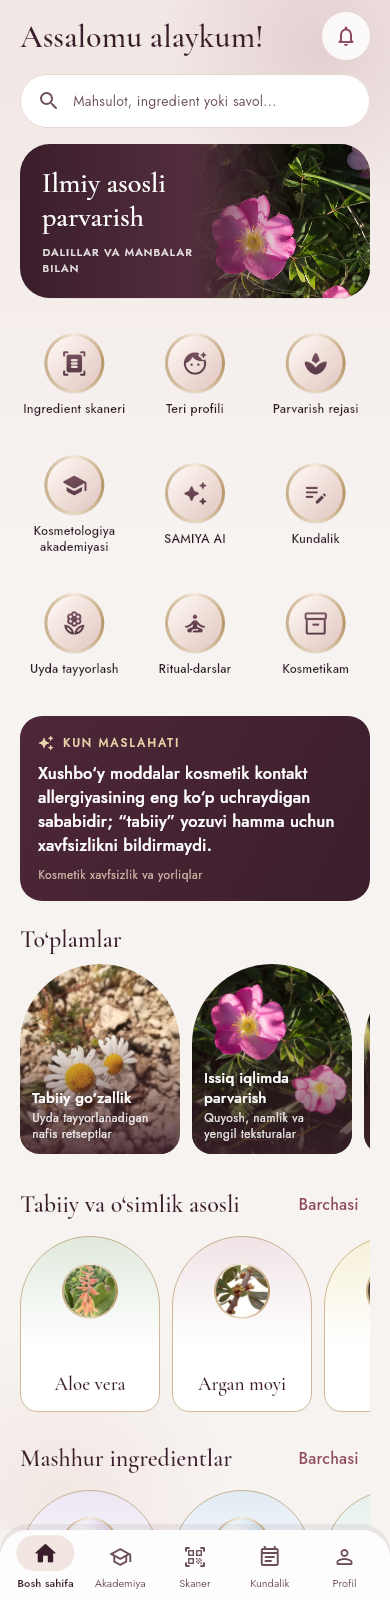
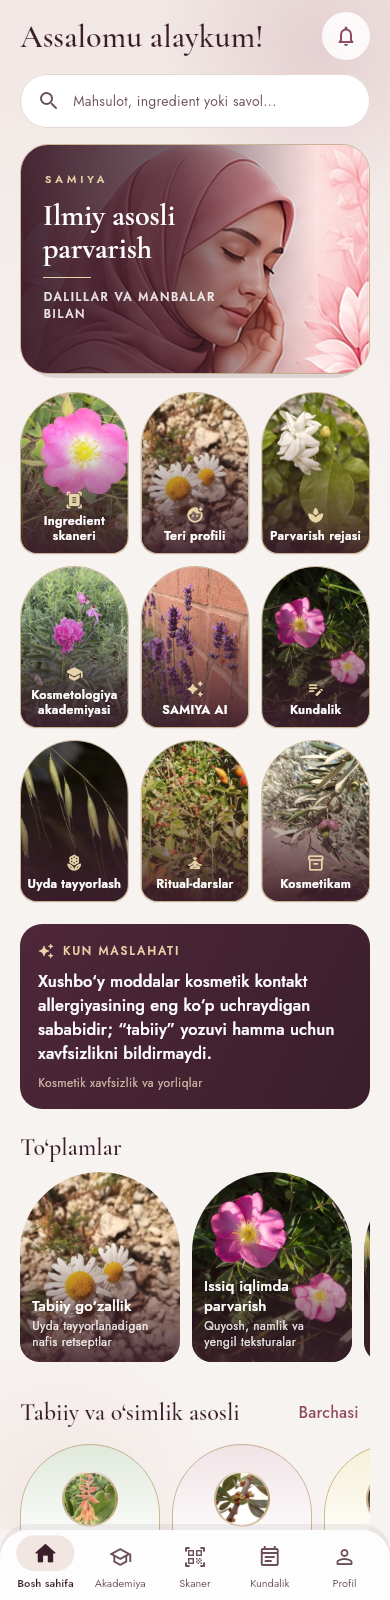
feat(home): lyuks bosh sahifa — portretli jurnal muqovasi va ravoq shaklidagi rasmli bo'lim kartochkalari
Claude-Session: https://claude.ai/code/session_01DHMppTHpVgUVFN7o5nWH6w

diff --git a/mobile/lib/features/home/home_page.dart b/mobile/lib/features/home/home_page.dart
@@ -9,7 +9,6 @@ import '../../app/theme.dart';
 import '../../ui/ingredient_palette.dart';
 import '../../ui/safe_nav.dart';
 import '../../l10n/app_localizations.dart';
-import '../../ui/portrait_banner.dart';
 
 /// 11 Bosh sahifa. Tavsiya bloki hozircha faqat ingredient NOMLARI (da'vosiz);
 /// tavsif va dalillar kontent bazasi tayyor bo'lgach ulanadi.
@@ -102,7 +101,7 @@ class HomePage extends StatelessWidget {
               ),
             ),
             const SizedBox(height: 16),
-            PortraitBanner(key: const Key('home-banner'), title: l.homeBannerTitle, tag: l.homeBannerTag, minHeight: 150, image: 'assets/photos/deco_rose.jpg'),
+            _HeroPortrait(key: const Key('home-banner'), title: l.homeBannerTitle, tag: l.homeBannerTag, onTap: () => context.go('/academy')),
             const SizedBox(height: 18),
             GridView.builder(
               shrinkWrap: true,
@@ -112,9 +111,9 @@ class HomePage extends StatelessWidget {
                 crossAxisCount: 3,
                 mainAxisSpacing: 12,
                 crossAxisSpacing: 12,
-                mainAxisExtent: 74 + 44 * scale,
+                mainAxisExtent: 128 + 34 * scale,
               ),
-              itemBuilder: (context, i) => _Tile(key: Key('tile-${tiles[i].$1}'), label: tiles[i].$2, icon: tiles[i].$3, onTap: tiles[i].$4),
+              itemBuilder: (context, i) => _PhotoTile(key: Key('tile-${tiles[i].$1}'), label: tiles[i].$2, icon: tiles[i].$3, photo: _tilePhotos[tiles[i].$1]!, onTap: tiles[i].$4),
             ),
             if (!app.isPro && app.campaign.phase == 'free_campaign' && (app.campaign.daysRemaining ?? 99) <= 15) ...[
               const SizedBox(height: 16),
@@ -322,82 +321,6 @@ class HomePage extends StatelessWidget {
   }
 }
 
-class _Tile extends StatelessWidget {
-  const _Tile({super.key, required this.label, required this.icon, required this.onTap});
-  final String label;
-  final IconData icon;
-  final VoidCallback onTap;
-
-  @override
-  Widget build(BuildContext context) {
-    return Semantics(
-      button: true,
-      label: label,
-      child: InkWell(
-        borderRadius: BorderRadius.circular(18),
-        onTap: onTap,
-        child: ExcludeSemantics(
-          child: Column(
-            mainAxisAlignment: MainAxisAlignment.center,
-            children: [
-              // Ikki rangli belgi: marvarid-atirgul gradient, ingichka oltin halqa va yengil yorug'lik.
-              Container(
-                width: 60,
-                height: 60,
-                padding: const EdgeInsets.all(3),
-                decoration: BoxDecoration(
-                  shape: BoxShape.circle,
-                  gradient: SweepGradient(
-                    colors: [
-                      SamiyaColors.gold.withValues(alpha: 0.9),
-                      const Color(0xFFE9D9C4),
-                      SamiyaColors.gold.withValues(alpha: 0.6),
-                      const Color(0xFFF4E9DC),
-                      SamiyaColors.gold.withValues(alpha: 0.9),
-                    ],
-                  ),
-                  boxShadow: SamiyaShadows.soft,
-                ),
-                child: Container(
-                  alignment: Alignment.center,
-                  decoration: const BoxDecoration(
-                    shape: BoxShape.circle,
-                    gradient: LinearGradient(
-                      begin: Alignment.topLeft,
-                      end: Alignment.bottomRight,
-                      colors: [Color(0xFFFFFBF8), Color(0xFFF0DFD9), Color(0xFFE2C6C4)],
-                    ),
-                  ),
-                  child: ShaderMask(
-                    blendMode: BlendMode.srcIn,
-                    shaderCallback: (r) => const LinearGradient(
-                      begin: Alignment.topCenter,
-                      end: Alignment.bottomCenter,
-                      colors: [Color(0xFF6B3D50), SamiyaColors.heading],
-                    ).createShader(r),
-                    child: Icon(icon, size: 27),
-                  ),
-                ),
-              ),
-              const SizedBox(height: 8),
-              Flexible(
-                child: Text(
-                  label,
-                  maxLines: 2,
-                  overflow: TextOverflow.ellipsis,
-                  textAlign: TextAlign.center,
-                  style: Theme.of(context).textTheme.titleMedium?.copyWith(fontSize: 12.5, fontWeight: FontWeight.w500, height: 1.25),
-                ),
-              ),
-            ],
-          ),
-        ),
-      ),
-    );
-  }
-}
-
-/// Ravoq (arka) shaklidagi kartochka: Sharq me'morchiligi va lyuks atelye uslubi; ingichka oltin chiziq.
 class _IngredientCard extends StatelessWidget {
   const _IngredientCard({required this.name, required this.slug, required this.onTap, this.latin = true, this.icon = Icons.science_outlined});
   final String name;
@@ -572,6 +495,136 @@ class _Collection extends StatelessWidget {
                   ),
                 ),
               ],
+            ),
+          ),
+        ),
+      ),
+    );
+  }
+}
+
+/// Bo'lim rasmlari (CC0, assets/photos).
+const _tilePhotos = {
+  'scanner': 'assets/photos/rose-water.jpg',
+  'skin': 'assets/photos/chamomile.jpg',
+  'routine': 'assets/photos/deco_jasmine.jpg',
+  'academy': 'assets/photos/deco_peony.jpg',
+  'ai': 'assets/photos/deco_lavender.jpg',
+  'journal': 'assets/photos/deco_rose.jpg',
+  'recipes': 'assets/photos/oat.jpg',
+  'rituals': 'assets/photos/rosehip-oil.jpg',
+  'shelf': 'assets/photos/olive-oil.jpg',
+};
+
+/// Jurnal muqovasi uslubidagi bosh kartochka: portret, ud-olxo'ri gradiyenti va serif sarlavha.
+class _HeroPortrait extends StatelessWidget {
+  const _HeroPortrait({super.key, required this.title, required this.tag, required this.onTap});
+  final String title, tag;
+  final VoidCallback onTap;
+
+  @override
+  Widget build(BuildContext context) {
+    final t = Theme.of(context).textTheme;
+    final rtl = Directionality.of(context) == TextDirection.rtl;
+    return GestureDetector(
+      onTap: onTap,
+      child: Container(
+        constraints: const BoxConstraints(minHeight: 230),
+        decoration: BoxDecoration(
+          borderRadius: BorderRadius.circular(28),
+          border: Border.all(color: SamiyaColors.gold.withValues(alpha: 0.55)),
+          boxShadow: const [BoxShadow(color: Color(0x223B1E2B), blurRadius: 20, spreadRadius: -6, offset: Offset(0, 10))],
+        ),
+        child: ClipRRect(
+          borderRadius: BorderRadius.circular(27),
+          child: Stack(children: [
+            Positioned.fill(
+              child: Transform.flip(
+                flipX: rtl,
+                child: Image.asset('assets/images/hero_card.jpg', fit: BoxFit.cover, alignment: const Alignment(0.7, -0.5), filterQuality: FilterQuality.high),
+              ),
+            ),
+            Positioned.fill(
+              child: DecoratedBox(
+                decoration: BoxDecoration(
+                  gradient: LinearGradient(
+                    begin: AlignmentDirectional.centerStart.resolve(Directionality.of(context)),
+                    end: AlignmentDirectional.centerEnd.resolve(Directionality.of(context)),
+                    colors: const [Color(0xF23B1E2B), Color(0xB33B1E2B), Color(0x003B1E2B)],
+                    stops: const [0, 0.45, 0.85],
+                  ),
+                ),
+              ),
+            ),
+            Padding(
+              padding: const EdgeInsetsDirectional.fromSTEB(22, 26, 110, 24),
+              child: Column(crossAxisAlignment: CrossAxisAlignment.start, mainAxisSize: MainAxisSize.min, children: [
+                Text('SAMIYA', style: t.labelSmall?.copyWith(color: const Color(0xFFE9D3A8), letterSpacing: 4, fontSize: 11)),
+                const SizedBox(height: 12),
+                Text(title, style: t.headlineMedium?.copyWith(color: Colors.white, fontSize: 30, height: 1.1)),
+                const SizedBox(height: 12),
+                Container(height: 1, width: 48, color: const Color(0xFFE9D3A8)),
+                const SizedBox(height: 10),
+                Text(tag.toUpperCase(), style: t.labelSmall?.copyWith(color: const Color(0xDDFFFFFF), letterSpacing: 1.6)),
+              ]),
+            ),
+          ]),
+        ),
+      ),
+    );
+  }
+}
+
+/// Rasmli bo'lim kartochkasi: ravoq shakli, pastda ud-olxo'ri pardasi, oltin belgi va oq nom.
+class _PhotoTile extends StatelessWidget {
+  const _PhotoTile({super.key, required this.label, required this.icon, required this.photo, required this.onTap});
+  final String label, photo;
+  final IconData icon;
+  final VoidCallback onTap;
+
+  @override
+  Widget build(BuildContext context) {
+    final t = Theme.of(context).textTheme;
+    const r = BorderRadius.vertical(top: Radius.circular(60), bottom: Radius.circular(18));
+    return Semantics(
+      button: true,
+      label: label,
+      child: GestureDetector(
+        onTap: onTap,
+        child: ExcludeSemantics(
+          child: Container(
+            decoration: BoxDecoration(
+              borderRadius: r,
+              border: Border.all(color: SamiyaColors.gold.withValues(alpha: 0.6)),
+              boxShadow: SamiyaShadows.soft,
+            ),
+            child: ClipRRect(
+              borderRadius: r,
+              child: Stack(fit: StackFit.expand, children: [
+                Image.asset(photo, fit: BoxFit.cover),
+                const DecoratedBox(
+                  decoration: BoxDecoration(
+                    gradient: LinearGradient(
+                      begin: Alignment.topCenter,
+                      end: Alignment.bottomCenter,
+                      colors: [Color(0x003B1E2B), Color(0x553B1E2B), Color(0xEE3B1E2B)],
+                      stops: [0.25, 0.55, 1],
+                    ),
+                  ),
+                ),
+                Padding(
+                  padding: const EdgeInsets.fromLTRB(6, 8, 6, 10),
+                  child: Column(mainAxisAlignment: MainAxisAlignment.end, children: [
+                    Icon(icon, size: 18, color: const Color(0xFFE9D3A8)),
+                    const SizedBox(height: 4),
+                    Text(label,
+                        textAlign: TextAlign.center,
+                        maxLines: 2,
+                        overflow: TextOverflow.ellipsis,
+                        style: t.labelLarge?.copyWith(color: Colors.white, fontSize: 12.5, height: 1.2, fontWeight: FontWeight.w600)),
+                  ]),
+                ),
+              ]),
             ),
           ),
         ),

diff --git a/mobile/test/visual/screens_test.dart b/mobile/test/visual/screens_test.dart
@@ -56,6 +56,10 @@ void main() {
             await precacheImage(AssetImage('assets/images/$a.png'), ctx);
           }
           await precacheImage(const AssetImage('assets/images/logo_square.jpg'), ctx);
+          await precacheImage(const AssetImage('assets/images/hero_card.jpg'), ctx);
+          for (final b in Directory('assets/photos').listSync().whereType<File>().where((f) => f.path.endsWith('.jpg'))) {
+            await precacheImage(AssetImage('assets/photos/${b.uri.pathSegments.last}'), ctx);
+          }
         });
         await t.pump(const Duration(milliseconds: 1200));
         await t.pump(const Duration(milliseconds: 400));
